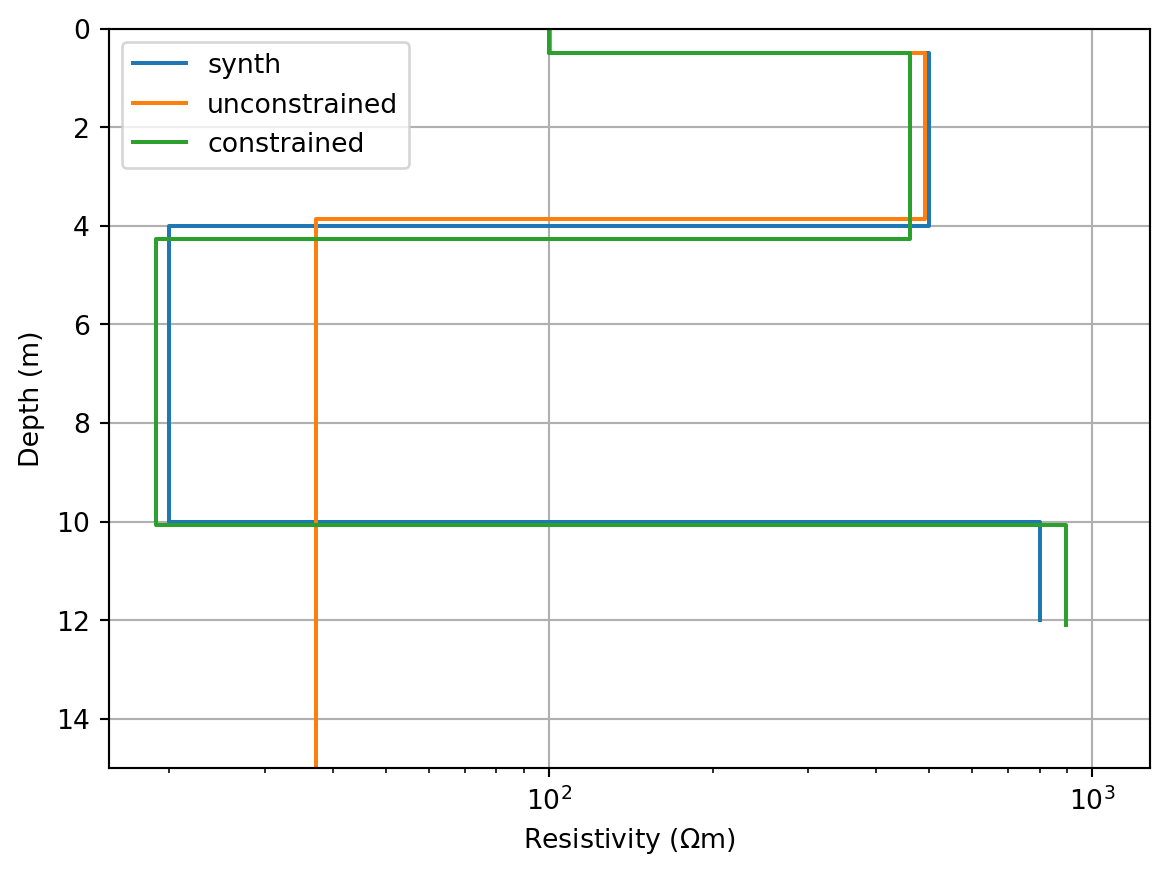
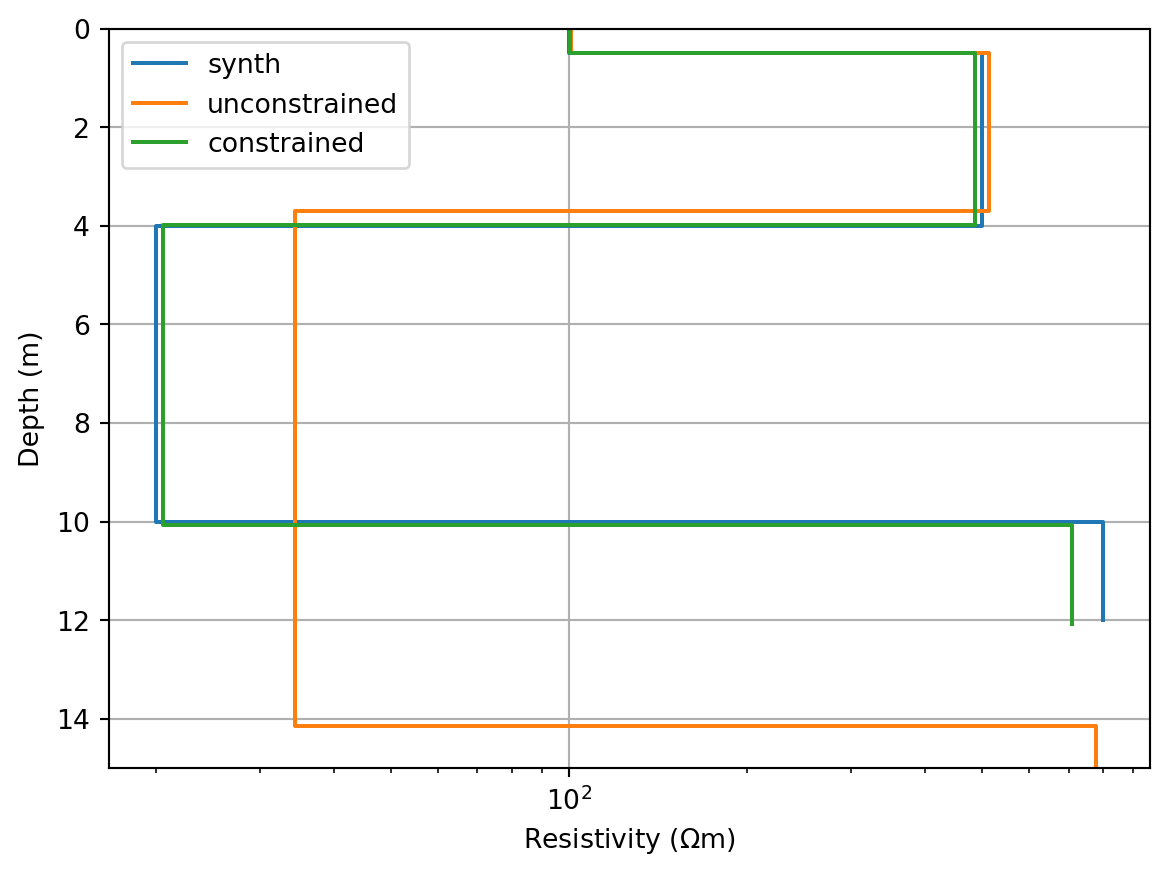
WIP

diff --git a/docs/index.html b/docs/index.html
@@ -190,15 +190,15 @@ pre > code.sourceCode > span > a:first-child::before { text-decoration: underlin
 
 </header>
 
-<p>This is a Quarto book.</p>
-<div id="87edc117" class="cell" data-execution_count="1">
+<p>This is work in progress!</p>
+<div id="59317d53" class="cell" data-execution_count="1">
 <div class="sourceCode cell-code" id="cb1"><pre class="sourceCode python code-with-copy"><code class="sourceCode python"><span id="cb1-1"><a href="#cb1-1" aria-hidden="true" tabindex="-1"></a><span class="im">import</span> numpy <span class="im">as</span> np</span>
 <span id="cb1-2"><a href="#cb1-2" aria-hidden="true" tabindex="-1"></a><span class="im">import</span> matplotlib.pyplot <span class="im">as</span> plt</span>
 <span id="cb1-3"><a href="#cb1-3" aria-hidden="true" tabindex="-1"></a><span class="im">import</span> pygimli <span class="im">as</span> pg</span>
 <span id="cb1-4"><a href="#cb1-4" aria-hidden="true" tabindex="-1"></a><span class="im">from</span> pygimli.frameworks.lsqrinversion <span class="im">import</span> LSQRInversion</span>
 <span id="cb1-5"><a href="#cb1-5" aria-hidden="true" tabindex="-1"></a><span class="im">from</span> pygimli.physics.ert <span class="im">import</span> VESModelling</span></code><button title="Copy to Clipboard" class="code-copy-button"><i class="bi"></i></button></pre></div>
 </div>
-<div id="9180387e" class="cell" data-execution_count="2">
+<div id="259284da" class="cell" data-execution_count="2">
 <div class="sourceCode cell-code" id="cb2"><pre class="sourceCode python code-with-copy"><code class="sourceCode python"><span id="cb2-1"><a href="#cb2-1" aria-hidden="true" tabindex="-1"></a>nlay <span class="op">=</span> <span class="dv">4</span></span>
 <span id="cb2-2"><a href="#cb2-2" aria-hidden="true" tabindex="-1"></a>lam <span class="op">=</span> <span class="fl">200.0</span></span>
 <span id="cb2-3"><a href="#cb2-3" aria-hidden="true" tabindex="-1"></a>errPerc <span class="op">=</span> <span class="fl">3.0</span></span>
@@ -214,7 +214,7 @@ pre > code.sourceCode > span > a:first-child::before { text-decoration: underlin
 <p><img src="index_files/figure-html/cell-3-output-1.png" width="580" height="412"></p>
 </div>
 </div>
-<div id="846691f0" class="cell" data-execution_count="3">
+<div id="974ef5ed" class="cell" data-execution_count="3">
 <div class="sourceCode cell-code" id="cb3"><pre class="sourceCode python code-with-copy"><code class="sourceCode python"><span id="cb3-1"><a href="#cb3-1" aria-hidden="true" tabindex="-1"></a>tLog <span class="op">=</span> pg.trans.TransLog()</span>
 <span id="cb3-2"><a href="#cb3-2" aria-hidden="true" tabindex="-1"></a>inv <span class="op">=</span> LSQRInversion(fop<span class="op">=</span>f, verbose<span class="op">=</span><span class="va">False</span>)</span>
 <span id="cb3-3"><a href="#cb3-3" aria-hidden="true" tabindex="-1"></a>inv.LSQRiter <span class="op">=</span> <span class="dv">20</span></span>
@@ -236,37 +236,41 @@ pre > code.sourceCode > span > a:first-child::before { text-decoration: underlin
 <span id="cb3-19"><a href="#cb3-19" aria-hidden="true" tabindex="-1"></a><span class="bu">print</span>(model2)</span>
 <span id="cb3-20"><a href="#cb3-20" aria-hidden="true" tabindex="-1"></a><span class="bu">print</span>(inv.chi2(), inv.relrms(), pg.<span class="bu">sum</span>(inv.model[:nlay<span class="op">-</span><span class="dv">1</span>]))</span></code><button title="Copy to Clipboard" class="code-copy-button"><i class="bi"></i></button></pre></div>
 <div class="cell-output cell-output-stderr">
-<pre><code>23/08/23 - 13:09:13 - pyGIMLi - WARNING - Multiprocess Jacobian currently unavailable for Win32 and Mac.
-23/08/23 - 13:09:13 - pyGIMLi - WARNING - Multiprocess Jacobian currently unavailable for Win32 and Mac.
-23/08/23 - 13:09:13 - pyGIMLi - WARNING - Multiprocess Jacobian currently unavailable for Win32 and Mac.
-23/08/23 - 13:09:13 - pyGIMLi - WARNING - Multiprocess Jacobian currently unavailable for Win32 and Mac.
-23/08/23 - 13:09:13 - pyGIMLi - WARNING - Multiprocess Jacobian currently unavailable for Win32 and Mac.
-23/08/23 - 13:09:13 - pyGIMLi - WARNING - Multiprocess Jacobian currently unavailable for Win32 and Mac.
-23/08/23 - 13:09:13 - pyGIMLi - WARNING - Multiprocess Jacobian currently unavailable for Win32 and Mac.
-23/08/23 - 13:09:14 - pyGIMLi - WARNING - Multiprocess Jacobian currently unavailable for Win32 and Mac.
-23/08/23 - 13:09:14 - pyGIMLi - WARNING - Multiprocess Jacobian currently unavailable for Win32 and Mac.
-23/08/23 - 13:09:14 - pyGIMLi - WARNING - Multiprocess Jacobian currently unavailable for Win32 and Mac.
-23/08/23 - 13:09:14 - pyGIMLi - WARNING - Multiprocess Jacobian currently unavailable for Win32 and Mac.
-23/08/23 - 13:09:14 - pyGIMLi - WARNING - Multiprocess Jacobian currently unavailable for Win32 and Mac.
-23/08/23 - 13:09:14 - pyGIMLi - WARNING - Multiprocess Jacobian currently unavailable for Win32 and Mac.
-23/08/23 - 13:09:14 - pyGIMLi - WARNING - Multiprocess Jacobian currently unavailable for Win32 and Mac.
-23/08/23 - 13:09:14 - pyGIMLi - WARNING - Multiprocess Jacobian currently unavailable for Win32 and Mac.
-23/08/23 - 13:09:14 - pyGIMLi - WARNING - Multiprocess Jacobian currently unavailable for Win32 and Mac.
-23/08/23 - 13:09:14 - pyGIMLi - WARNING - Multiprocess Jacobian currently unavailable for Win32 and Mac.
-23/08/23 - 13:09:15 - pyGIMLi - WARNING - Multiprocess Jacobian currently unavailable for Win32 and Mac.</code></pre>
+<pre><code>23/08/23 - 13:11:35 - pyGIMLi - WARNING - Multiprocess Jacobian currently unavailable for Win32 and Mac.
+23/08/23 - 13:11:35 - pyGIMLi - WARNING - Multiprocess Jacobian currently unavailable for Win32 and Mac.
+23/08/23 - 13:11:35 - pyGIMLi - WARNING - Multiprocess Jacobian currently unavailable for Win32 and Mac.
+23/08/23 - 13:11:36 - pyGIMLi - WARNING - Multiprocess Jacobian currently unavailable for Win32 and Mac.
+23/08/23 - 13:11:36 - pyGIMLi - WARNING - Multiprocess Jacobian currently unavailable for Win32 and Mac.
+23/08/23 - 13:11:36 - pyGIMLi - WARNING - Multiprocess Jacobian currently unavailable for Win32 and Mac.
+23/08/23 - 13:11:36 - pyGIMLi - WARNING - Multiprocess Jacobian currently unavailable for Win32 and Mac.
+23/08/23 - 13:11:36 - pyGIMLi - WARNING - Multiprocess Jacobian currently unavailable for Win32 and Mac.
+23/08/23 - 13:11:36 - pyGIMLi - WARNING - Multiprocess Jacobian currently unavailable for Win32 and Mac.
+23/08/23 - 13:11:36 - pyGIMLi - WARNING - Multiprocess Jacobian currently unavailable for Win32 and Mac.
+23/08/23 - 13:11:36 - pyGIMLi - WARNING - Multiprocess Jacobian currently unavailable for Win32 and Mac.
+23/08/23 - 13:11:36 - pyGIMLi - WARNING - Multiprocess Jacobian currently unavailable for Win32 and Mac.
+23/08/23 - 13:11:37 - pyGIMLi - WARNING - Multiprocess Jacobian currently unavailable for Win32 and Mac.
+23/08/23 - 13:11:37 - pyGIMLi - WARNING - Multiprocess Jacobian currently unavailable for Win32 and Mac.
+23/08/23 - 13:11:37 - pyGIMLi - WARNING - Multiprocess Jacobian currently unavailable for Win32 and Mac.
+23/08/23 - 13:11:37 - pyGIMLi - WARNING - Multiprocess Jacobian currently unavailable for Win32 and Mac.
+23/08/23 - 13:11:37 - pyGIMLi - WARNING - Multiprocess Jacobian currently unavailable for Win32 and Mac.
+23/08/23 - 13:11:37 - pyGIMLi - WARNING - Multiprocess Jacobian currently unavailable for Win32 and Mac.
+23/08/23 - 13:11:37 - pyGIMLi - WARNING - Multiprocess Jacobian currently unavailable for Win32 and Mac.
+23/08/23 - 13:11:37 - pyGIMLi - WARNING - Multiprocess Jacobian currently unavailable for Win32 and Mac.
+23/08/23 - 13:11:37 - pyGIMLi - WARNING - Multiprocess Jacobian currently unavailable for Win32 and Mac.
+23/08/23 - 13:11:38 - pyGIMLi - WARNING - Multiprocess Jacobian currently unavailable for Win32 and Mac.</code></pre>
 </div>
 <div class="cell-output cell-output-stdout">
 <pre><code>
 
-7 [0.4937320819915976, 3.370781257178004, 11.863253437946202, 100.244873681884, 492.5077484604116, 37.28200242608787, 1045.9704195687327]
-0.9116070650973334 2.8871842012948012 15.727766777115804
+7 [0.4958032004834833, 3.1944228003581694, 10.455469129860017, 100.65419694411747, 513.2671597071054, 34.38785545745408, 779.6373324129925]
+0.9218055408693335 2.8639539009438013 14.14569513070167
 
 
-7 [0.48251903575283134, 3.774936430815615, 5.819316774128112, 100.07046215540682, 462.4530830287375, 18.878951248500222, 894.798506720426]
-0.9810996731541719 2.9790719041838205 10.07677224069656</code></pre>
+7 [0.4880130793319744, 3.501649354774239, 6.082450075788653, 100.50302179630481, 486.11391343869496, 20.528134177885732, 709.6926556492791]
+0.9870625644051995 2.9483358529546146 10.072112509894867</code></pre>
 </div>
 </div>
-<div id="bc0b6b79" class="cell" data-execution_count="4">
+<div id="e4a91192" class="cell" data-execution_count="4">
 <div class="sourceCode cell-code" id="cb6"><pre class="sourceCode python code-with-copy"><code class="sourceCode python"><span id="cb6-1"><a href="#cb6-1" aria-hidden="true" tabindex="-1"></a>fig, ax <span class="op">=</span> pg.plt.subplots()</span>
 <span id="cb6-2"><a href="#cb6-2" aria-hidden="true" tabindex="-1"></a>ax.loglog(rhoa, ab2, <span class="st">"x"</span>)</span>
 <span id="cb6-3"><a href="#cb6-3" aria-hidden="true" tabindex="-1"></a>ax.loglog(inv.response, ab2, <span class="st">"-"</span>)</span>
@@ -275,7 +279,7 @@ pre > code.sourceCode > span > a:first-child::before { text-decoration: underlin
 <p><img src="index_files/figure-html/cell-5-output-1.png" width="580" height="412"></p>
 </div>
 </div>
-<div id="ae66a6a0" class="cell" data-execution_count="5">
+<div id="992baf3b" class="cell" data-execution_count="5">
 <div class="sourceCode cell-code" id="cb7"><pre class="sourceCode python code-with-copy"><code class="sourceCode python"><span id="cb7-1"><a href="#cb7-1" aria-hidden="true" tabindex="-1"></a>fig, ax <span class="op">=</span> pg.plt.subplots()</span>
 <span id="cb7-2"><a href="#cb7-2" aria-hidden="true" tabindex="-1"></a>pg.viewer.mpl.drawModel1D(ax, synthk, synres, plot<span class="op">=</span><span class="st">"semilogx"</span>, label<span class="op">=</span><span class="st">"synth"</span>)</span>
 <span id="cb7-3"><a href="#cb7-3" aria-hidden="true" tabindex="-1"></a>pg.viewer.mpl.drawModel1D(ax, model<span class="op">=</span>model1, label<span class="op">=</span><span class="st">"unconstrained"</span>)</span>
